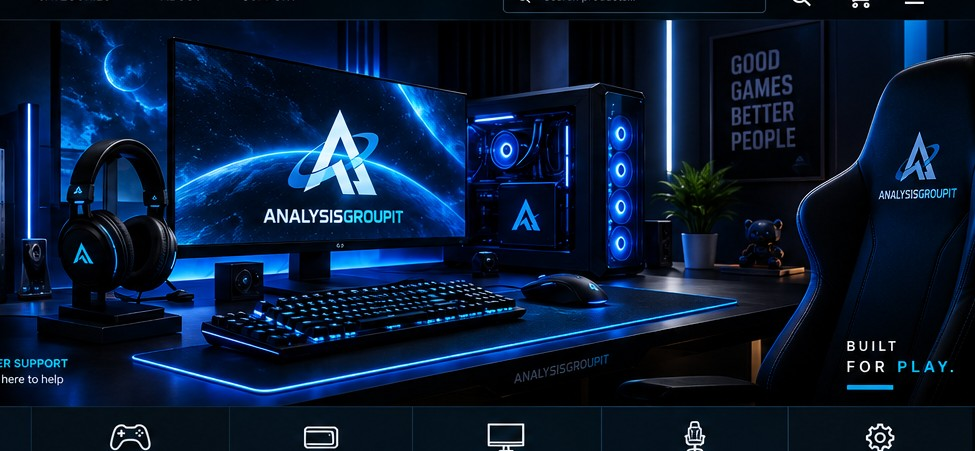
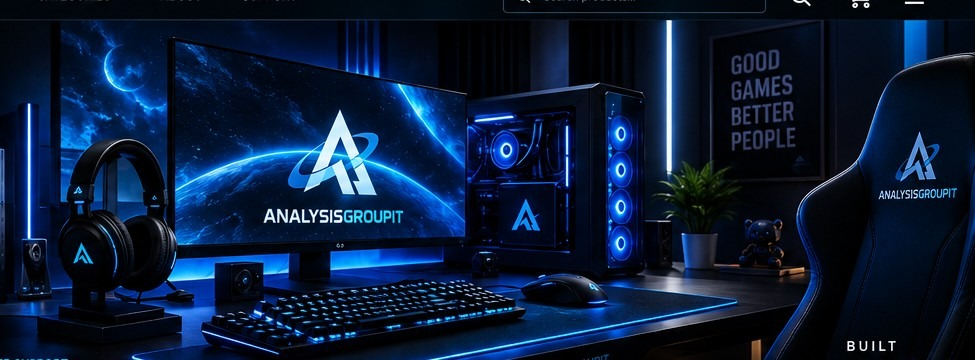
Add files via upload

diff --git a/styles.css b/styles.css
@@ -13,3 +13,9 @@ footer{padding:35px 4%;display:flex;gap:25px;border-top:1px solid #17354a}footer
 #toast{position:fixed;right:25px;bottom:25px;background:#28b8ff;color:#00111c;padding:14px 20px;font-weight:900;opacity:0;transform:translateY(15px);transition:.2s}#toast.show{opacity:1;transform:none}
 @media(max-width:1000px){.grid{grid-template-columns:repeat(3,1fr)}.hero{grid-template-columns:1fr}.hero-image{height:420px}.categories{grid-template-columns:repeat(3,1fr)}}
 @media(max-width:650px){header{height:auto;padding:18px 5%;flex-wrap:wrap}nav{order:3;width:100%;justify-content:space-between;gap:8px}.hero h1{font-size:48px}.hero-copy{padding:50px 6%}.hero-image{height:280px}.grid{grid-template-columns:repeat(2,1fr)}.benefits{grid-template-columns:1fr}.categories{grid-template-columns:repeat(2,1fr)}.section-head p{display:none}}
+
+/* V3 hero cleanup */
+.hero-image{position:relative;min-height:500px;background:#020910}
+.hero-image img{width:100%;height:100%;object-fit:cover;object-position:center center;display:block}
+@media(max-width:1000px){.hero-image{min-height:400px}}
+@media(max-width:650px){.hero-image{min-height:280px}}

diff --git a/README.md b/README.md
@@ -1,3 +1,9 @@
-# ANALYSISGROUPIT GAMING V2
+# ANALYSISGROUPIT GAMING V3 CLEAN
 
-Static GitHub Pages store. Upload all files directly to repository root. No build step required. Product names and prices are demo catalog values.
+GitHub Pages ready. Upload every file in this ZIP directly to the repository root and replace the previous files.
+
+V3 cleanup:
+- Removed the baked-in icon strip from the bottom of the hero image.
+- Kept the separate FAST SHIPPING / SECURE PAYMENT / GAMER SUPPORT section.
+- Responsive static HTML/CSS/JS; no build step.
+- Product names and prices are demo catalog values.
